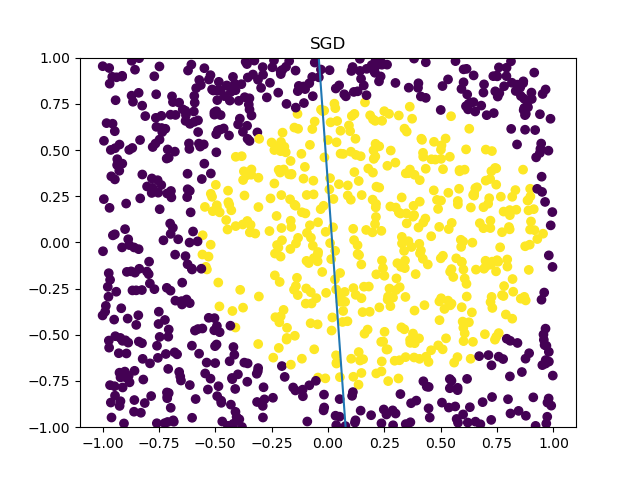
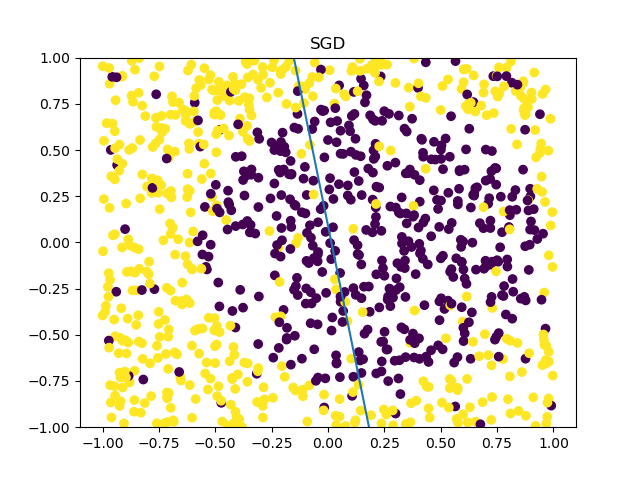
try function in diferents samples

Changed region(s): [[0.1562, 0.125, 0.875, 0.9062]]

diff --git a/P1/practica1.py b/P1/practica1.py
@@ -497,18 +497,27 @@ def sign(x):
  	if x >= 0:
          return 1
  	return -1
-
-#function with 10% noise
-def f_noise(x1, x2, noise=0.1):
-    result = np.power(x1-0.2,2)
-    result = result + np.power(x2,2) - 0.6
+ 
+#tags with 10% noise
+def noise(tags,percent):
     
+    tags_noise = tags.copy()
     #number of points with noise 10%
-    n_noise = int(x1.size*noise)
+    n_noise = int(tags_noise.size*percent)
     
     #indices of sample with noise (random integer without repeating)
-    ind_noise = np.random.choice(x1.size, n_noise, replace=False)
+    ind_noise = np.random.choice(tags_noise.size, n_noise, replace=False)
     #print(ind_noise)
+    
+    for i in ind_noise:
+        tags_noise[i]=-tags_noise[i]#change the sign
+    
+    return tags_noise
+
+#function
+def F2(x1, x2):
+    result = np.power(x1-0.2,2)
+    result = result + np.power(x2,2) - 0.6
     
     #tag array
     tags = np.zeros(x1.size)
@@ -519,13 +528,9 @@ def f_noise(x1, x2, noise=0.1):
         
         point = i #save the result
         
-        #if the point is inside the ind_noise
-        if(np.where(ind_noise == ind) != []):
-            #add the tag
-            tags[ind]=-sign(point)#change the sign
-        else:
-            #add the tag
-            tags[ind]=sign(point)
+       
+        #add the tag
+        tags[ind]=sign(point)
         ind = ind + 1
         
     #print(tags)
@@ -540,12 +545,13 @@ sample = simula_unif(1000,2,1)
 # ax22a.set_title('1000 Points random')
 
 #add the tags
-tags = f_noise(sample[:,0],sample[:,1])
+tags = F2(sample[:,0],sample[:,1])
+tags_noise = noise(tags,0.1)
 
 #Section B: show the 2D points of the sample with the labels with 10% noise
 # fig22a = plt.figure()
 # ax22a = fig22a.add_subplot()
-# ax22a.scatter(sample[:,0],sample[:,1], c=tags)
+# ax22a.scatter(sample[:,0],sample[:,1], c=tags_noise)
 # ax22a.set_title('1000 Points random with 10% noise')
 
 
@@ -616,11 +622,11 @@ def sgdF(x,y,eta,size_batch, maxIter, w, error2get):
 
 eta = 0.01
 size_batch = 64
-max_it = 8000
+max_it = 10000
 w = np.zeros(3, dtype=np.float64) #initialize w to 0
 
 start_time = time()
-w = sgdF(sample_c, tags, eta, size_batch, max_it,w, error2get)
+w = sgdF(sample_c, tags_noise, eta, size_batch, max_it,w, error2get)
 w.dtype=np.float64
 elapsed_time = time() - start_time
 print("SGD Elapsed time: %0.10f seconds" %elapsed_time)
@@ -633,7 +639,7 @@ print ("Ein: ", Err(x,y,w))
 #graph SGD section C
 fig22c = plt.figure()
 ax22c = fig22c.add_subplot()
-ax22c.scatter(sample_c[:,1],sample_c[:,2],c=tags)
+ax22c.scatter(sample_c[:,1],sample_c[:,2],c=tags_noise)
 X = np.linspace(-1, 1, y.size)
 Y = (-w[0]-w[1]*X)/w[2]
 #ax22c.plot([-1,1], [-w[0]/w[2], -w[0]/w[2]-w[1]/w[2]])
